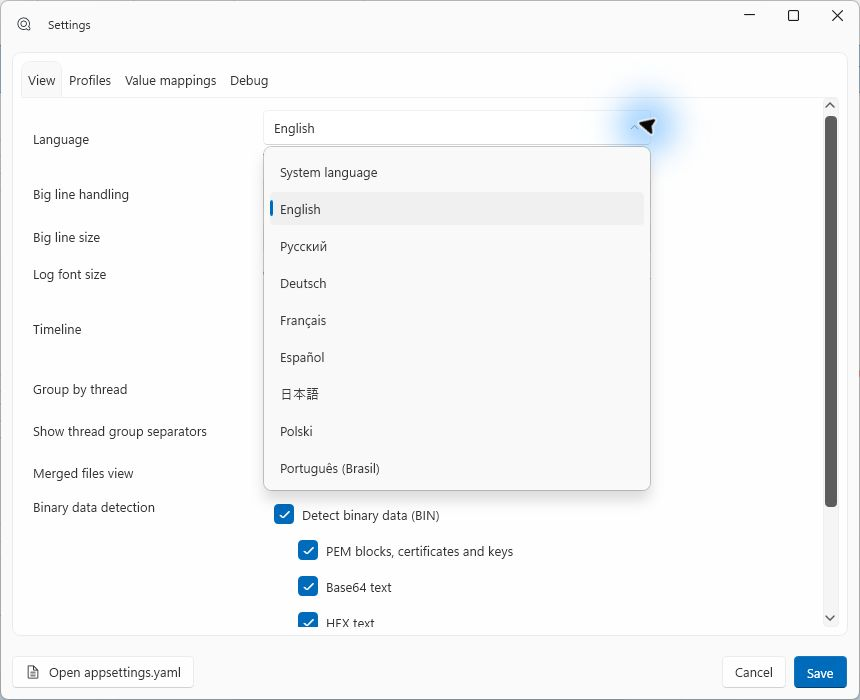
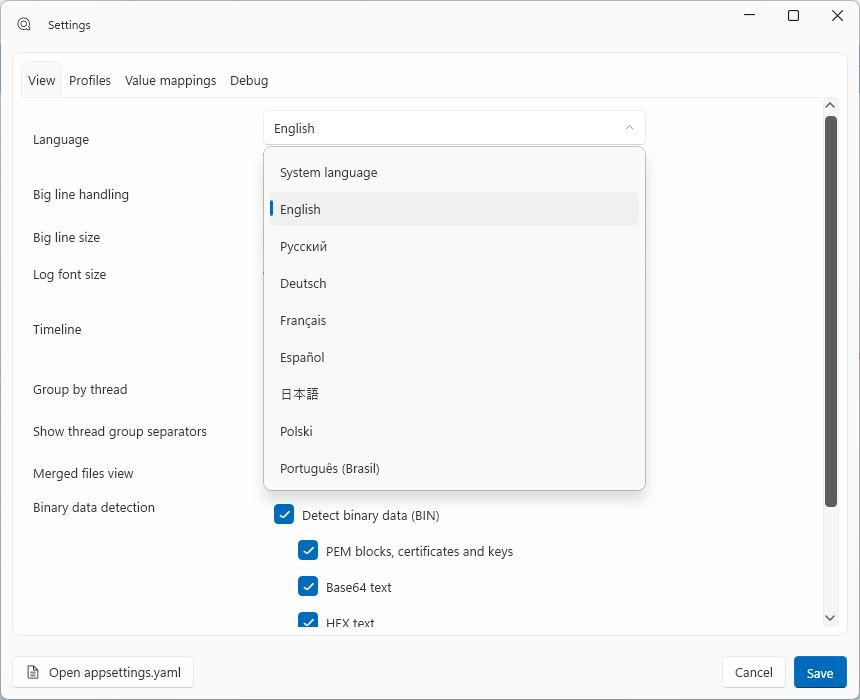
fix

Changed region(s): [[0.6953, 0.12, 0.8163, 0.24], [0.9977, 0.51, 1.0, 0.54]]

diff --git a/FEATURES.md b/FEATURES.md
@@ -765,7 +765,7 @@ French, Spanish, Japanese, Polish and Brazilian Portuguese**.
 2. Select a language, or **System language** to follow Windows.
 3. Click **Save**, then restart LogGrokX.
 
-![The interface and settings displayed in Russian](assets/images/feature-language-russian.png)
+![Settings displayed in Russian](assets/images/feature-language-russian.png)
 
 A fresh installation starts in the language selected in Setup. Portable builds
 follow the system language by default, falling back to English for an unsupported
@@ -785,7 +785,7 @@ the whole configuration. Each named profile holds its own **log formats** and
 **color rules**. View options, language, binary detection, value mappings,
 updates and diagnostics are shared across profiles.
 
-![Profile selector and Venn color rules in Settings → Profiles (Russian interface)](assets/images/feature-profiles.png)
+![Profile selector and Classic color rules in Settings → Profiles](assets/images/feature-profiles.png)
 
 1. Open **Settings → Profiles** and select a profile.
 2. Use **New** for an empty profile or **Copy** to duplicate the selected one;
@@ -801,7 +801,7 @@ the open logs and preserves marked lines; renaming a profile with unchanged
 configuration does not trigger a reparse. If a profile cannot be applied, the
 last successfully applied configuration stays in use.
 
-Fresh configurations include **Kaspersky** (the original formats and colors),
+Fresh configurations include **Classic** (the original formats and colors),
 **Venn** (its own structured format and colors) and **Plain text** (whole-line
 text without color rules). Upgrades preserve the existing configuration, so
 these bundled profiles are not automatically added to an older installation.

diff --git a/README.md b/README.md
@@ -161,7 +161,7 @@ LogGrokX.exe C:\logs\app.log C:\logs\worker.log
   Select a language in Settings → View, save and restart.
 - **Configuration profiles** — named sets of log formats and color rules,
   managed in Settings → Profiles and switched from the title bar for all open
-  logs. Fresh configurations include Kaspersky, Venn and Plain text profiles.
+  logs. Fresh configurations include Classic, Venn and Plain text profiles.
 - **Merged files view** — combine several opened logs into one time-ordered grid.
   Columns are aligned across different log formats, rows are tinted per source,
   and search, time-range filtering, thread grouping, JSON folding and marking
